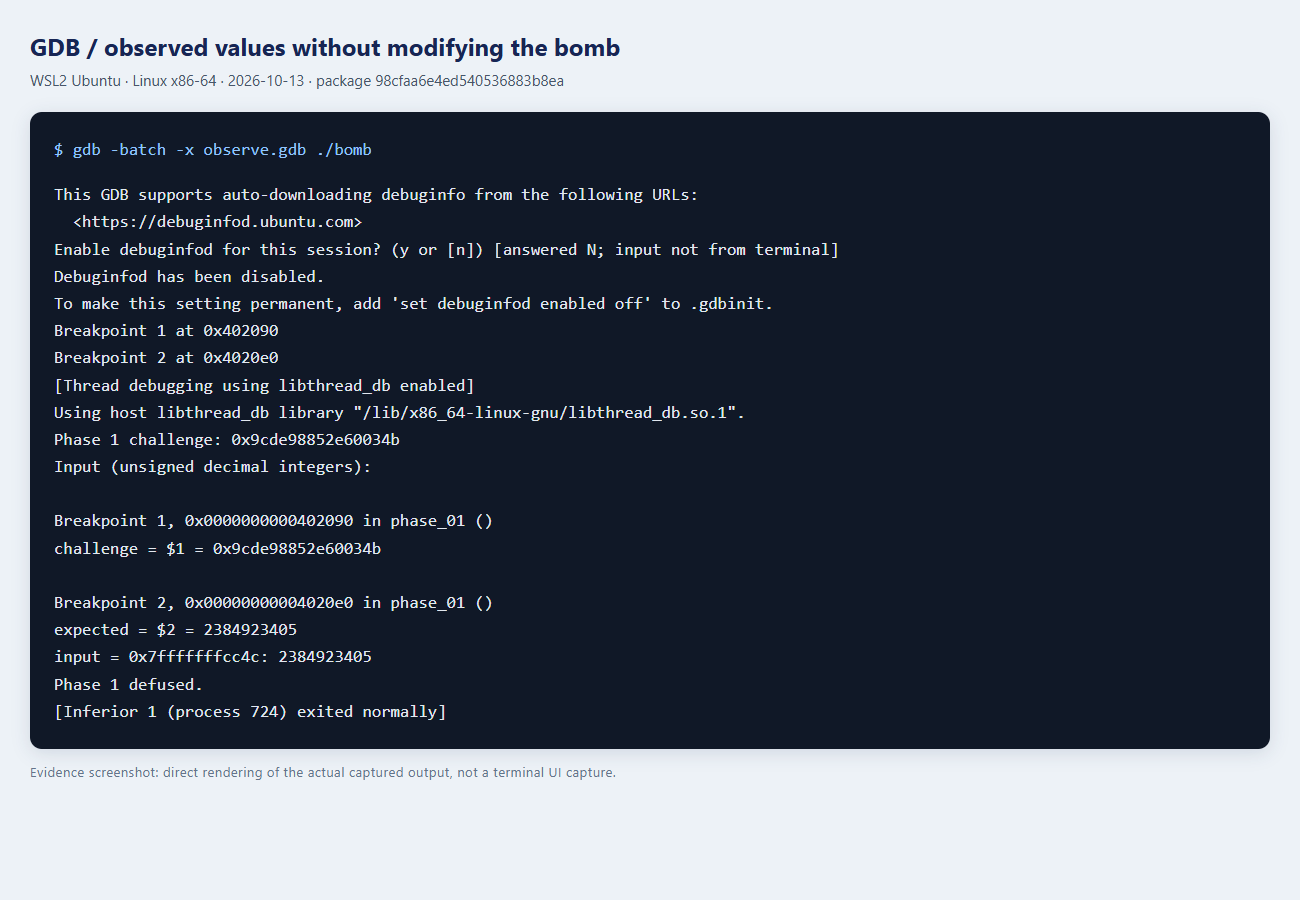
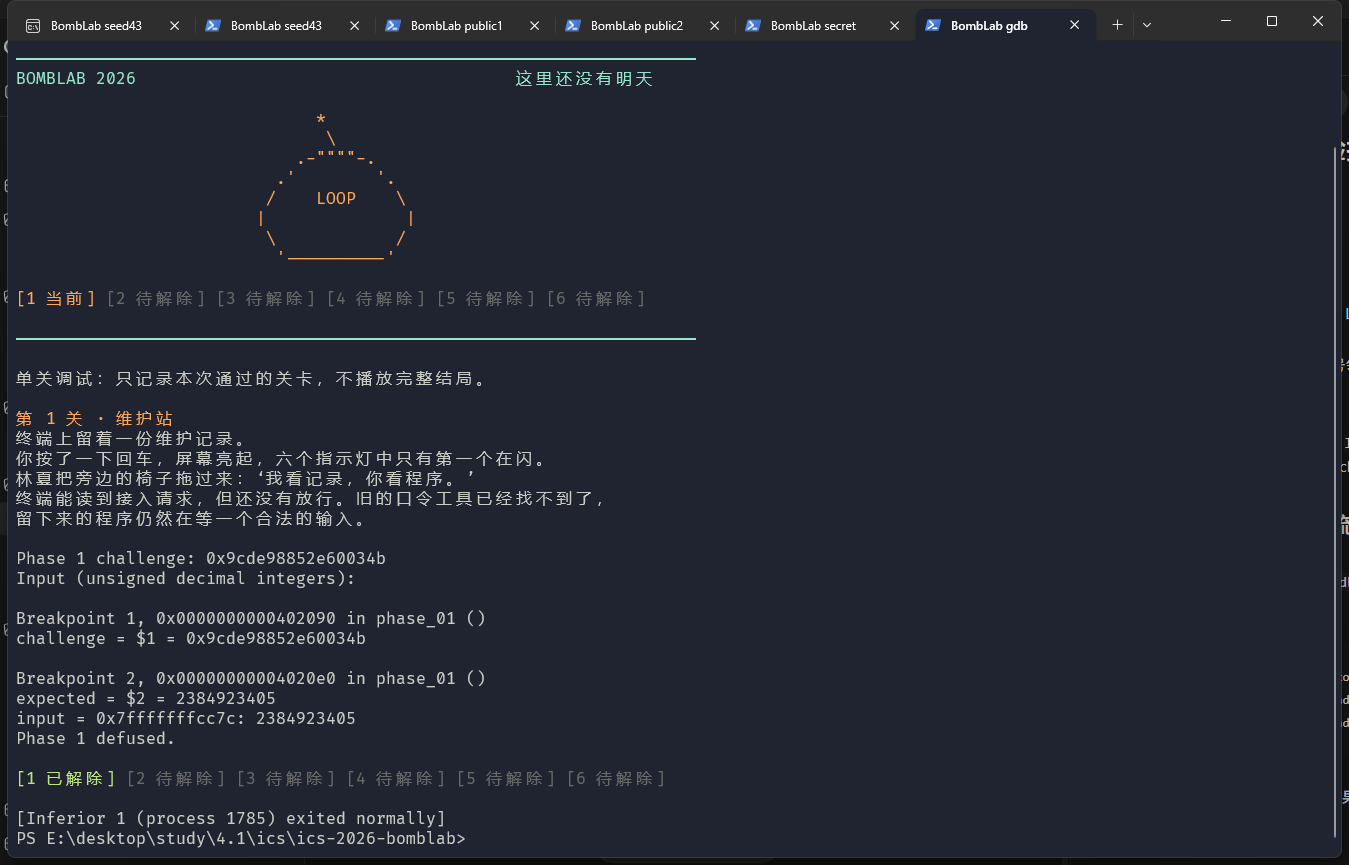
Replace rendered evidence with actual terminal screenshots

diff --git a/report.md b/report.md
@@ -206,9 +206,13 @@ make test
 { ./defuser --seed 43; ./defuser --secret --seed 43; } | ./bomb --seed 43
 ```
 
-下面两张图由实际运行日志渲染，分别记录公开测试和 seed `43` 的结果。
+以下为实际运行时的终端窗口截图，分别记录六关公开测试、Honor 和 seed `43` 的结果。
 
-![公开测试的真实输出](images/public-tests.png)
+![第 1 至 3 关公开测试](images/public-tests.png)
+
+![第 4 至 6 关公开测试](images/public-tests-2.png)
+
+![Honor 公开测试](images/honor.png)
 
 ![非公开 seed 43 的七关运行结果](images/seed43.png)
 
@@ -220,4 +224,4 @@ make test
 
 参考了[课程 Lab2 文档](https://ics-26fall-fdu.github.io/labs/lab2-bomb-lab/)及[BombLab 模板中的 README 和 tutor 教学](https://github.com/ICS-26Fall-FDU/BombLab)。个人常量、跳转表和链表数据均来自按本学号领取的 `bomb`。
 
-分析使用 `objdump` 查看汇编、GDB 读取数据表和核对运行值，测试使用 GCC 和课程提供的脚本。本次反汇编分析、求解代码、测试执行及报告整理由 Codex（AI）完成，报告中的计算关系和结果据此记录。
+分析使用 `objdump` 查看汇编、GDB 读取数据表和核对运行值，测试使用 GCC 和课程提供的脚本。
